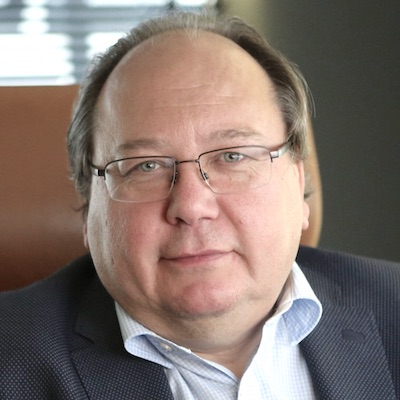
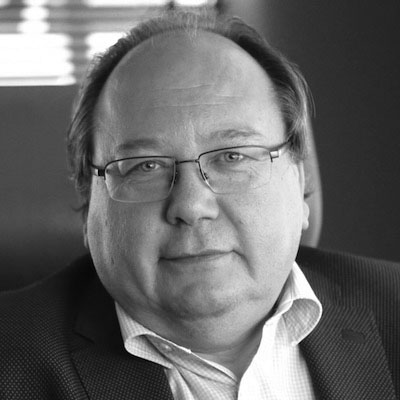
final updates

diff --git a/pages/aboutdraft2.md b/pages/aboutdraft2.md
@@ -22,28 +22,37 @@ Project leaders develop and refine the concept of disease maps, coordinate the a
 <tr>
 <td style="width: 200px;"><p style="margin:2px; text-align:left;"><img src="../images/people/AlexanderMazein.jpg" width="120"/></p></td>
 <td style="width: 200px;"><p style="margin:2px; text-align:left;"><img src="../images/people/AnnaNiarakis.jpg" width="120"/></p></td>
-<td style="width: 200px;"><p style="margin:2px; text-align:left;"><img src="../images/people/LaurenceCalzone.jpg" width="120"/></p></td>
-<td style="width: 200px;"><p style="margin:2px; text-align:left;"><img src="../images/people/LuizLadeira.jpg" width="120"/></p></td>
+<td style="width: 200px;"><p style="margin:2px; text-align:left;"><img src="../images/people/LaurenceCalzone2.png" width="120"/></p></td>
 </tr>
 <tr>
 <td style="width: 200px; text-align:left; vertical-align:top;"><strong>Alexander Mazein</strong><p style="line-height:140%; margin-top:6px; font-size:13px;">Researcher, Luxembourg Institute of Health, Luxembourg</p></td>
 <td style="width: 200px; text-align:left; vertical-align:top;"><strong>Anna Niarakis</strong><p style="line-height:140%; margin-top:6px; font-size:13px;">Professor, University of Toulouse III - Paul Sabatier, Toulouse, France</p></td>
 <td style="width: 200px; text-align:left; vertical-align:top;"><strong>Laurence Calzone</strong><p style="line-height:140%; margin-top:6px; font-size:13px;">Researcher, Institut Curie, Paris, France</p></td>
-<td style="width: 200px; text-align:left; vertical-align:top;"><strong>Luiz Ladeira</strong><p style="line-height:140%; margin-top:6px; font-size:13px;">Researcher, University of Liège, Liège, Belgium</p></td>
 </tr>
 <tr>
+<td style="width: 200px;"><p style="margin:2px; text-align:left;"><img src="../images/people/LuizLadeira.jpg" width="120"/></p></td>
 <td style="width: 200px;"><p style="margin:2px; text-align:left;"><img src="../images/people/MarekOstaszewski1.jpg" width="120"/></p></td>
 <td style="width: 200px;"><p style="margin:2px; text-align:left;"><img src="../images/people/MarcGillespie.jpg" width="120"/></p></td>
-<td style="width: 200px;"><p style="margin:2px; text-align:left;"><img src="../images/people/MartinaKutmon.jpg" width="120"/></p></td>
-<td style="width: 200px;"><p style="margin:2px; text-align:left;"><img src="../images/people/MattiHoch2.jpg" width="120"/></p></td>
 
 </tr>
 <tr>
+<td style="width: 200px; text-align:left; vertical-align:top;"><strong>Luiz Ladeira</strong><p style="line-height:140%; margin-top:6px; font-size:13px;">Researcher, University of Liège, Liège, Belgium</p></td>
 <td style="width: 200px; text-align:left; vertical-align:top;"><strong>Marek Ostaszewski</strong><p style="line-height:140%; margin-top:6px; font-size:13px;">Researcher, University of Luxembourg, Belvaux, Luxembourg</p></td>
 <td style="width: 200px; text-align:left; vertical-align:top;"><strong>Marc Gillespie</strong><p style="line-height:140%; margin-top:6px; font-size:13px;">Professor, St. John's University, New York, US</p></td>
+</tr>
+
+<tr>
+<td style="width: 200px;"><p style="margin:2px; text-align:left;"><img src="../images/people/MartinaKutmon.jpg" width="120"/></p></td>
+<td style="width: 200px;"><p style="margin:2px; text-align:left;"><img src="../images/people/MattiHoch2.jpg" width="120"/></p></td>
+<td style="width: 200px;"><p style="margin:2px; text-align:left;"><img src="../images/people/ShailendraGupta.jpg" width="120"/></p></td>
+</tr>
+
+<tr>
 <td style="width: 200px; text-align:left; vertical-align:top;"><strong>Martina Kutmon</strong><p style="line-height:140%; margin-top:6px; font-size:13px;">Associate professor, Maastricht University, Maastricht, Netherlands</p></td>
 <td style="width: 200px; text-align:left; vertical-align:top;"><strong>Matti Hoch</strong><p style="line-height:140%; margin-top:6px; font-size:13px;">Researcher, University of Rostock, Rostock, Germany</p></td>
+<td style="width: 200px; text-align:left; vertical-align:top;"><strong>Shailendra Gupta</strong><p style="line-height:140%; margin-top:6px; font-size:13px;">Researcher, University of Rostock, Rostock, Germany</p></td>
 </tr>
+
 </table>    
 
 ## Principal Investigators
@@ -52,17 +61,29 @@ Principal investigators support and advise the Community.
 
 <table>
 <tr>
+<td style="width: 200px;"><p style="margin:2px; text-align:left;"><img src="../images/people/EmmaSchymanski.png" width="120"/></p></td>
 <td style="width: 200px;"><p style="margin:2px; text-align:left;"><img src="../images/people/EmmanuelBarillot.jpg" width="120"/></p></td>
 <td style="width: 200px;"><p style="margin:2px; text-align:left;"><img src="../images/people/LiesbetGeris.jpg" width="120"/></p></td>
-<td style="width: 200px;"><p style="margin:2px; text-align:left;"><img src="../images/people/OlafWolkenhauer.jpg" width="120"/></p></td>
-<td style="width: 200px;"><p style="margin:2px; text-align:left;"><img src="../images/people/ReinhardSchneider.jpg" width="120"/></p></td>
 </tr>
+
 <tr>
+<td style="width: 200px; text-align:left; vertical-align:top;"><strong>Emma Schymanski, PhD</strong><p style="line-height:140%; margin-top:6px; font-size:13px;">Head of Environmental Cheminformatics group, Luxembourg Centre for Systems Biomedicine, University of Luxembourg, Luxembourg</p></td>
 <td style="width: 200px; text-align:left; vertical-align:top;"><strong>Emmanuel Barillot, PhD</strong><p style="line-height:140%; margin-top:6px; font-size:13px;">Director of the U900 Institut Curie/INSERM/Ecole des Mines ParisTech, Paris, France</p></td>
-<td style="width: 200px; text-align:left; vertical-align:top;"><strong>Liesbet Geris, PhD</strong><p style="line-height:140%; margin-top:6px; font-size:13px;">Head of the Biomechanics Research Unit, University of Liège, Liège, Belgium and KU Leuven, Leuven, Belgium. Executive Director of the Virtual Physiological Human Institute (VPHi)</p></td>
-<td style="width: 200px; text-align:left; vertical-align:top;"><strong>Olaf Wolkenhauer, PhD</strong><p style="line-height:140%; margin-top:6px; font-size:13px;">Head of the Department of Systems Biology & Bioinformatics, Faculty of Computer Science and Electrical Engineering, University of Rostock, Germany</p></td>
-<td style="width: 200px; text-align:left; vertical-align:top;"><strong>Reinhard Schneider, PhD</strong><p style="line-height:140%; margin-top:6px; font-size:13px;">Head of Bioinformatics Core, Luxembourg Centre for Systems Biomedicine, University of Luxembourg, Belvaux, Luxembourg</p></td>
+<td style="width: 200px; text-align:left; vertical-align:top;"><strong>Liesbet Geris, PhD</strong><p style="line-height:140%; margin-top:6px; font-size:13px;">Head of the Biomechanics Research Unit, University of Liège and KU Leuven, Belgium. Executive Director of the Virtual Physiological Human Institute</p></td>
 </tr>
+
+<tr>
+<td style="width: 200px;"><p style="margin:2px; text-align:left;"><img src="../images/people/OlafWolkenhauer.jpg" width="120"/></p></td>
+<td style="width: 200px;"><p style="margin:2px; text-align:left;"><img src="../images/people/VenkataSatagopam.jpg" width="120"/></p></td>
+<td></td>
+</tr>
+
+<tr>
+<td style="width: 200px; text-align:left; vertical-align:top;"><strong>Olaf Wolkenhauer, PhD</strong><p style="line-height:140%; margin-top:6px; font-size:13px;">Head of the Department of Systems Biology & Bioinformatics, Faculty of Computer Science and Electrical Engineering, University of Rostock, Germany</p></td>
+<td style="width: 200px; text-align:left; vertical-align:top;"><strong>Venkata Satagopam, PhD</strong><p style="line-height:140%; margin-top:6px; font-size:13px;">Head of Clinical and Translational Informatics group, Luxembourg Centre for Systems Biomedicine, University of Luxembourg, Luxembourg</p></td>
+<td></td>
+</tr>
+
 </table>
 
 ## Founding members
@@ -73,14 +94,23 @@ We would like to thank our founding mebers for their longstanding and enthusiast
 <td style="width: 200px;"><p style="margin:2px; text-align:left;"><img src="../images/people/AndreiZinovyev.jpg" width="120"/></p></td>
 <td style="width: 200px;"><p style="margin:2px; text-align:left;"><img src="../images/people/CharlesAuffray.jpg" width="120"/></p></td>
 <td style="width: 200px;"><p style="margin:2px; text-align:left;"><img src="../images/people/InnaKuperstein.jpg" width="120"/></p></td>
-<td style="width: 200px;"><p style="margin:2px; text-align:left;"><img src="../images/people/RudiBalling.jpg" width="120"/></p></td>
 </tr>
 <tr>
 <td style="width: 200px; text-align:left; vertical-align:top;"><strong>Andrei Zinovyev</strong><p style="line-height:140%; margin-top:6px; font-size:13px;">Institut Curie, Paris, France</p></td>
 <td style="width: 200px; text-align:left; vertical-align:top;"><strong>Charles Auffray</strong><p style="line-height:140%; margin-top:6px; font-size:13px;">European Institute for Systems Biology and Medicine, Lyon, France</p></td>
 <td style="width: 200px; text-align:left; vertical-align:top;"><strong>Inna Kuperstein</strong><p style="line-height:140%; margin-top:6px; font-size:13px;">Institut Curie, Paris, France</p></td>
-<td style="width: 200px; text-align:left; vertical-align:top;"><strong>Rudi Balling</strong><p style="line-height:140%; margin-top:6px; font-size:13px;">Luxembourg Centre for Systems Biomedicine, University of Luxembourg, Belvaux, Luxembourg</p></td>
 </tr>
+<tr>
+<td style="width: 200px;"><p style="margin:2px; text-align:left;"><img src="../images/people/ReinhardSchneider.jpg" width="120"/></p></td>
+<td style="width: 200px;"><p style="margin:2px; text-align:left;"><img src="../images/people/RudiBalling.jpg" width="120"/></p></td>
+<td/>
+</tr>
+<tr>
+<td style="width: 200px; text-align:left; vertical-align:top;"><strong>Reinhard Schneider, PhD</strong><p style="line-height:140%; margin-top:6px; font-size:13px;">Luxembourg Centre for Systems Biomedicine, University of Luxembourg, Luxembourg</p></td>
+<td style="width: 200px; text-align:left; vertical-align:top;"><strong>Rudi Balling</strong><p style="line-height:140%; margin-top:6px; font-size:13px;">Luxembourg Centre for Systems Biomedicine, University of Luxembourg, Luxembourg</p></td>
+<td/>
+</tr>
+
 </table>
         
 <!--### Scientific Advisory Board
